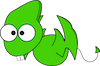
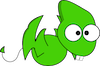
added bonus images and items

diff --git a/index.html b/index.html
@@ -38,7 +38,6 @@
   document.getElementById("dummytextbox").focus();
   var manifest;           // used to register sounds for preloading
   var rockimages;         // rock images for preloading
-  
   var preload;
 
   var rockBelt;     //space rock array
@@ -60,6 +59,8 @@
   var qTextField;
   var typingField;    //user input
   var debugField;
+  var comboField;
+  var maxComboField;
 
   var loadingInterval = 0;
   var showingMsg = null;
@@ -137,11 +138,21 @@
       {id: "sun", src: "sun.png"},
       {id: "bg0", src: "bg0.png"},
       {id: "bg1", src: "bg1.png"},
-      {id: "bg2", src: "bg2.png"},
+      {id: "bg12", src: "bg12.png"},
+      {id: "bg14", src: "bg14.png"},            
+      {id: "bg16", src: "bg16.png"},
+      {id: "bg18", src: "bg18.png"},            
+      {id: "bg20", src: "bg20.png"},
+      {id: "bg24", src: "bg24.png"},
+      {id: "bg4", src: "bg4.png"},            
+      {id: "bg6", src: "bg6.png"},
+      {id: "bg9", src: "bg9.png"},            
+      {id: "plane", src:"plane.png"},
+      {id: "junk", src:"junk.png"},      
       {id: "cloud", src:"cloud.png"},
       {id: "duck", src:"duck.png"},
       {id: "dragon", src:"dragon.png"},
-      {id: "firework", src:"firework.png"}                        
+      {id: "fireworks", src:"fireworks.png"}                        
     ];    
 
     //createjs.Sound.alternateExtensions = ["mp3"];
@@ -171,21 +182,11 @@
     stage.update();   //update the stage to show text
 
     //Set up back-drop
-    
-    var lp = new createjs.Shape(new createjs.Graphics().beginBitmapFill(preload2.getResult("lpbg")).drawRect(0,0,260,480));
-    lp.name = "leftpanelbg";
-
-    var bg = new createjs.Shape(new createjs.Graphics().beginBitmapFill(preload2.getResult("bg0")).drawRect (260,0,540,480));
-    bg.name = "bg";
-
     backdrop = new createjs.Container();
     backdrop.x = 0;
     backdrop.y = 0;
     backdrop.width = canvas.width;
     backdrop.height = canvas.height;
-    backdrop.addChild(lp);
-    backdrop.addChild(bg);
-    backdrop.moveables = [];   
 
 		watchRestart();
 	}
@@ -200,12 +201,13 @@
 	  // indicate the player is now on screen
     createjs.Sound.play("begin");
 		stage.removeAllChildren();
-    // delete all moveable items from backdrop
-    for (var x in backdrop.moveables){
-      backdrop.removeChild(backdrop.moveables[x]);
-    }
-    backdrop.moveables = [];
 
+    // delete all moveable items from backdrop
+    backdrop.removeAllChildren();
+    backdrop.moveables = [];
+    var bg = new createjs.Shape(new createjs.Graphics().beginBitmapFill(preload2.getResult("bg0")).drawRect (260,0,540,480));
+    bg.name = "bg";
+    backdrop.addChild(bg);
 
     stage.addChild(backdrop);
     		
@@ -226,24 +228,32 @@
     scoreField.textAlign = "right";
     scoreField.x = 220;
     scoreField.y = 100;
-    scoreField.maxWidth = 260;    
+    scoreField.maxWidth = 240;    
 
     comboField = new createjs.Text("", "20px Pixel", "#802222");
     comboField.textAlign = "center";
     comboField.textBaseline = "top";
     comboField.x = 130;
     comboField.y = 170;
-    comboField.maxWidth = 260;
+    comboField.maxWidth = 240;
+    
+    maxComboField = new createjs.Text("", "15px Pixel", "#804444");
+    maxComboField.textAlign = "center";
+    maxComboField.textBaseline = "top";
+    maxComboField.x = 130;
+    maxComboField.y = 200;
+    maxComboField.maxWidth = 240;
+    
 
     qTextField = new createjs.Text("", "bold 40px Pixel", "#483C32");
-    qTextField.maxWidth = 260;
+    qTextField.maxWidth = 240;
     qTextField.textAlign = "center";
     qTextField.textBaseline = "middle";
     qTextField.x = 100;
     qTextField.y = 160;        
 
     qEnglishField = new createjs.Text("", "bold 15px Pixel", "#832A0D");
-    qEnglishField.maxWidth = 200;
+    qEnglishField.maxWidth = 190;
     qEnglishField.textAlign = "center";
     qEnglishField.textBaseline = "middle";
     qEnglishField.x = 100;
@@ -255,10 +265,8 @@
     qPanel.width = 200;
     qPanel.height = 250;
     
-    stage.addChild(qPanel);
     qPanel.addChild(qEnglishField);
     qPanel.addChild(qTextField);
-
     
     var g = new createjs.Graphics();
     g.setStrokeStyle(3);
@@ -266,7 +274,6 @@
     g.beginFill("white");
     g.drawRoundRect (40,380,180,30,8);
     typingBox = new createjs.Shape(g);
-    stage.addChild(typingBox);
 
     typingField = new createjs.Text("", "bold 18px Courier", "#000000");
     typingField.maxWidth = 260;
@@ -274,10 +281,17 @@
     typingField.textBaseline = "middle";
     typingField.x = 60;
     typingField.y = 394;    
-    
+
+    var lp = new createjs.Shape(new createjs.Graphics().beginBitmapFill(preload2.getResult("lpbg")).drawRect(0,0,260,480));
+    lp.name = "leftpanelbg";
+
+    stage.addChild(lp);
+    stage.addChild(qPanel);
+    stage.addChild(typingBox);    
     stage.addChild(typingField);		
 		stage.addChild(scoreField);
 		stage.addChild(comboField);
+    stage.addChild(maxComboField);		
     stage.addChild(levelField);		
     stage.addChild(debugField);		
     stage.update();
@@ -291,7 +305,8 @@
 		game = new GameState();
     //reset rockBelt
     rockBelt = [];
-	}
+  }
+
 
 	function tick(event) {
     for (x in backdrop.moveables){
@@ -344,6 +359,7 @@
           currRock = null;
           scoreField.text = game.getScore().toString();
           comboField.text = game.getComboString();
+          maxComboField.text = game.getMaxComboString();
           levelField.text = "Lv:" + game.getLevel().toString();
           if (beforeLevel < game.getLevel()) {
             // Level up
@@ -373,7 +389,86 @@
             
             switch (afterScoreAdj){
               //set up special items, like rotating sun, etc.
-              case 2:
+              case 22:
+                var bg_item = new createjs.Bitmap(preload2.getResult("duck"));
+                bg_item.x = 700;
+                bg_item.y = 400;
+                bg_item.name = "duck";
+                bg_item.regX = bg_item.getBounds().width / 2;
+                bg_item.regY = bg_item.getBounds().height / 2;
+                bg_item.rotation = 0;
+                bg_item.rotDirection = 1;
+                backdrop.addChild(bg_item);
+                bg_item.tick = function(event, game){
+                  if (Math.abs(this.rotation) > 10) {
+                    this.rotDirection *= -1;
+                  }
+                  this.rotation += 0.1 * this.rotDirection;
+                };
+                backdrop.moveables.push(bg_item);
+                break;
+              case 25:
+                var bg_item = new createjs.Bitmap(preload2.getResult("dragon"));
+                bg_item.x = 260;
+                bg_item.y = 40;
+                bg_item.name = "dragon";
+                bg_item.regX = bg_item.getBounds().width / 2;
+                bg_item.regY = bg_item.getBounds().height / 2;
+                bg_item.moveDirection = 1;
+                bg_item.moveCount = 0;
+                backdrop.addChild(bg_item);
+                bg_item.tick = function(event, game){
+                  this.moveCount += this.moveDirection;
+                  if (Math.abs(++this.moveCount) > 50) { this.moveDirection *= -1;}
+                  this.x = (this.x + 0.15) % 1000;
+                  this.y = this.y + this.moveDirection * 0.5; 
+                };
+                backdrop.moveables.push(bg_item);
+                break;
+              case 1: //Change to 15
+                var bg_item = new createjs.Bitmap(preload2.getResult("plane"));
+                bg_item.x = 260;
+                bg_item.y = 90;
+                bg_item.name = "plane";
+                bg_item.regX = bg_item.getBounds().width / 2;
+                bg_item.regY = bg_item.getBounds().height / 2;
+                bg_item.rotation = 0;
+                bg_item.rotDirection = 1;
+                bg_item.moveDirection = 1;
+                bg_item.moveCount = 0;
+                backdrop.addChild(bg_item);
+                bg_item.tick = function(event, game){
+                  if (Math.abs(this.rotation) > 2) {
+                    this.rotDirection *= -1;
+                  }
+                  this.rotation += 0.1 * this.rotDirection;                  
+                  this.moveCount += this.moveDirection;
+                  if (Math.abs(++this.moveCount) > 20) { this.moveDirection *= -1;}
+                  this.x = (this.x + 0.3) % 3000;
+                  this.y = this.y + this.moveDirection * 0.3; 
+                };
+                backdrop.moveables.push(bg_item);
+                break;
+              case 17:
+                var bg_item = new createjs.Bitmap(preload2.getResult("junk"));
+                bg_item.x = 260;
+                bg_item.y = 400;
+                bg_item.name = "junk";
+                bg_item.regX = bg_item.getBounds().width / 2;
+                bg_item.regY = bg_item.getBounds().height / 2;
+                bg_item.rotation = 0;
+                bg_item.rotDirection = 1;
+                backdrop.addChild(bg_item);
+                bg_item.tick = function(event, game){
+                  if (Math.abs(this.rotation) > 3) {
+                    this.rotDirection *= -1;
+                  }
+                  this.rotation += 0.1 * this.rotDirection;                  
+                  this.x = (this.x - 100 + 0.1) % 800 + 100; 
+                };
+                backdrop.moveables.push(bg_item);
+                break;
+              case 3:
                 var bg_item = new createjs.Bitmap(preload2.getResult("sun"));
                 bg_item.x = 730;
                 bg_item.y = 50;
@@ -388,14 +483,14 @@
                 };
                 backdrop.moveables.push(bg_item);
                 break;
-              case 1:
+              case 2:
                 var bg_item1 = new createjs.Bitmap(preload2.getResult("cloud"));
                 bg_item1.x = 300;
                 bg_item1.y = 100;
                 bg_item1.name = "cloud1";
                 backdrop.addChild(bg_item1);
                 bg_item1.tick = function(event, game){
-                  this.x = (this.x - 260 + 0.1) % 540 + 260; 
+                  this.x = (this.x - 100 + 0.1) % 700 + 100; 
                 };
                 var bg_item2 = new createjs.Bitmap(preload2.getResult("cloud"));
                 bg_item2.x = 600;
@@ -403,7 +498,7 @@
                 bg_item2.name = "cloud2";
                 backdrop.addChild(bg_item2);                
                 bg_item2.tick = function(event, game){
-                  this.x = (this.x - 260 + 0.2) % 540 + 260; 
+                  this.x = (this.x - 100 + 0.2) % 650 + 100; 
                 };                                
                 backdrop.moveables.push(bg_item1);
                 backdrop.moveables.push(bg_item2);
@@ -506,6 +601,7 @@
     createjs.Sound.play("hit", createjs.Sound.INTERRUPT_ANY);
     game.logAction(currRock.question, 0);
     comboField.text = game.getComboString();
+    maxComboField.text = game.getMaxComboString();
     currRock = null;    
   }
 

diff --git a/gamestate.js b/gamestate.js
@@ -9,6 +9,7 @@
     var pause_state = false;
     var history = [];
     var combo = 0;
+    var maxCombo = 0;
 
     //Privileged methods
     
@@ -45,6 +46,9 @@
   	    combo = 0;
   	  } else {
   	    combo++;
+  	    if (maxCombo < combo) {
+  	      maxCombo = combo;
+  	    }
   	  }
   	};
 
@@ -56,7 +60,14 @@
       if (!combo) return "";
       return combo.toString() + " Combo" + (combo>1?"s":"");
     };
-	
+    this.getMaxCombo = function(){
+      return maxCombo;
+    };
+    this.getMaxComboString = function() {
+      if (!maxCombo) return "";
+      return "Max: " + maxCombo.toString();
+    };	
+
     this.getScore = function(){
   	  var sum = 0;
   	  for (x in history) {

diff --git a/gameconfig.js b/gameconfig.js
@@ -1,6 +1,6 @@
 var MAX_LEVEL = 6;
 var VELOCITIES = [1,1.5,2,2.5,4]; 
-var LEVELBOUND = [0,32,64,128,256,512];
+var LEVELBOUND = [0,32,64,128,256,512,9999999];
 
 function getVelocity(level){
   if (level < MAX_LEVEL) return VELOCITIES[level-1];
